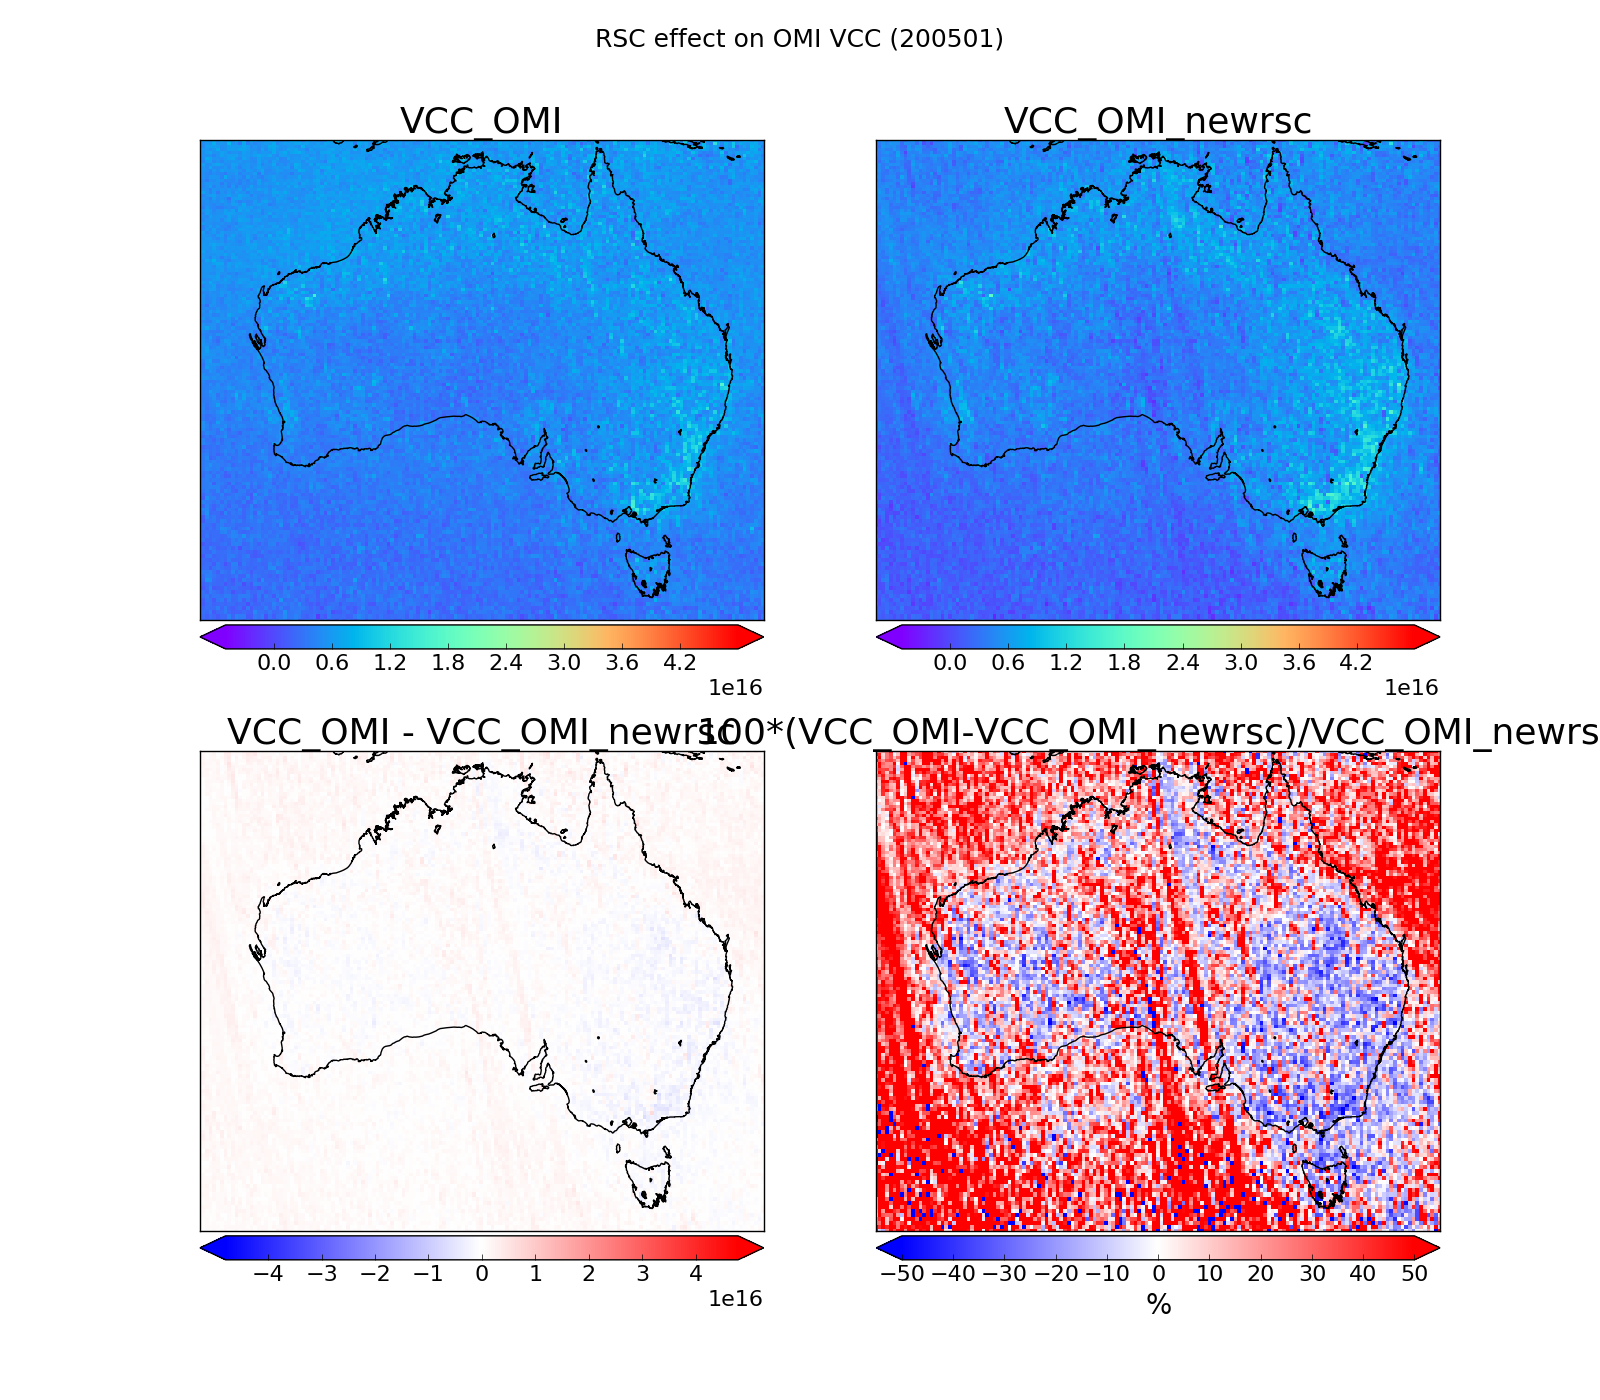
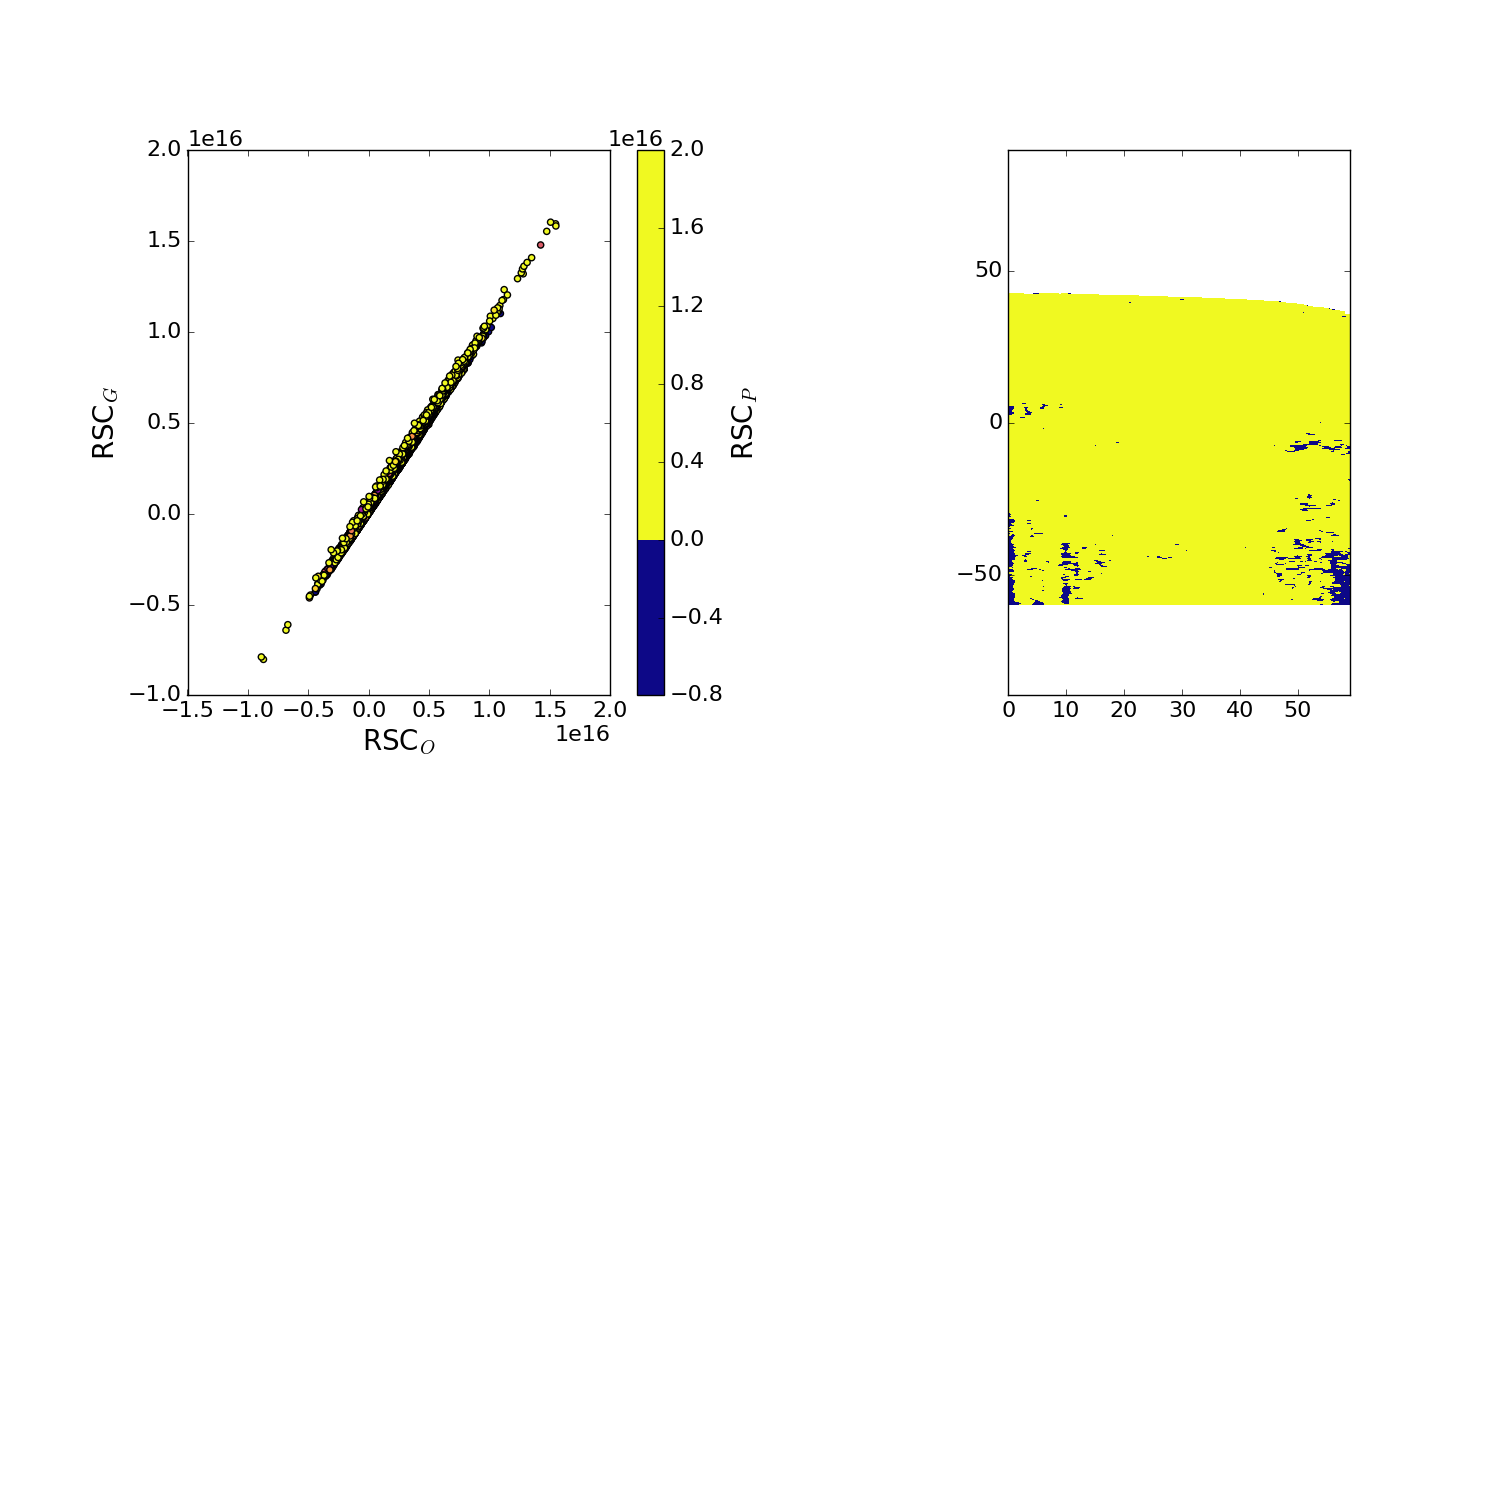
Updated RSC tests

diff --git a/tests/RSC_tests.py b/tests/RSC_tests.py
@@ -22,7 +22,7 @@ from copy import deepcopy as dcopy
 from datetime import datetime#, timedelta
 
 import matplotlib.pyplot as plt
-
+from mpl_toolkits.mplot3d import Axes3D # 3d scatter
 #from matplotlib.colors import LogNorm # for lognormal colour bar
 #from matplotlib.ticker import FormatStrFormatter # tick formats
 #import matplotlib.patches as mpatches
@@ -45,8 +45,29 @@ Oo='$\Omega_{O}$'       # OMI VC
 Ooc='$\Omega_{OC}$'     # OMI VCC
 
 
+######################
+##      plotting functions
+######################
 
+def plot_tracks(RSC,RSC_lats=np.linspace(-90,90,500),
+                linestyle='.',
+                cmapname='jet', labels=True, colorbar=True):
+    ## plot each track with a slightly different colour
 
+    cmap=plt.cm.cmap_d[cmapname]
+    colors=[cmap(i) for i in np.linspace(0, 1, 60)]
+    for track in range(60):
+        plt.plot(RSC[:,track], RSC_lats, linestyle, color=colors[track])
+
+    if labels:
+        plt.ylabel('latitude')
+        plt.xlabel('molec/cm2')
+
+    if colorbar:
+        sm = plt.cm.ScalarMappable(cmap=plt.cm.jet,norm=plt.Normalize(vmin=0,vmax=60))
+        sm._A=[]
+        cb=plt.colorbar(sm)
+        cb.set_label('track')
 
 
 
@@ -65,6 +86,7 @@ def new_vs_old(month=datetime(2005,1,1)):
     d0=util.first_day(month)
     dn=util.last_day(month)
     titles=['VCC_OMI','VCC_OMI_newrsc']
+    lables=[Ooc,r'$\Omega_{Oc,new}$']
     om=omrp(d0,dayn=dn, keylist=titles)
 
     # Compare old vs new avg for one month
@@ -72,8 +94,146 @@ def new_vs_old(month=datetime(2005,1,1)):
     lats=[om.lats,om.lats]
     lons=[om.lons,om.lons]
     pp.compare_maps(datas,lats,lons,pname=pname, linear=True,
-                    titles=titles,rmin=-50,rmax=50,
-                    suptitle='RSC effect on OMI VCC (%s)'%ymstr)
+                    vmin=1e14,vmax=2e16,
+                    titles=lables,rmin=-50,rmax=50, amin=-5e15,amax=5e15,
+                    suptitle='%s with and without updated RSC (%s)'%(Ooc,ymstr))
+
+def intercomparison(month=datetime(2005,1,1)):
+    '''
+        Look at RSC in a month between AMF types used to turn model VC into SC
+    '''
+     # plot name
+    ymstr=month.strftime('%Y%m')
+    pname='Figs/RSC_intercomparison_%s.png'%ymstr
+    cmapname='plasma'
+
+    # read in VCC_OMI and VCC_OMI_newrsc for month
+    d0=util.first_day(month)
+    dn=util.last_day(month)
+    titles=['RSC','RSC_latitude']
+    lables=['RSC$_O$','RSC$_G$','RSC$_P$']
+    colours=['orange','green','purple']
+    om=omrp(d0,dayn=dn, keylist=titles) #
+    lats=om.RSC_latitude
+    RSC=np.nanmean(om.RSC,axis=0) # RSC=[time, lats, track, type]
+
+    vmin=-1e16
+    vmax=1e16
+
+    plt.figure(figsize=(15,15))
+    for i in range(3):
+        plt.subplot(2,3,1+i)
+        plt.contourf(range(60),lats,RSC[:,:,i],cmap=cmapname,vmin=vmin,vmax=vmax)
+        plt.title(lables[i])
+        plt.xlabel('track')
+        plt.ylabel('latitude')
+        # plot the 60 tracks as lines
+        plt.subplot(2,3,4+i)
+        plot_tracks(RSC[:,:,i],labels=False, colorbar=i==2)
+        if i==0:
+            plt.ylabel('latitude')
+        if i==1:
+            plt.xlabel('molec/cm2')
+        plt.title(lables[i])
+
+
+    #[[plt.plot(lats, RSC[:,i,j],color=colours[j],label=[None,lables[j]][i==0]) for i in range(60)] for j in range(3)]
+    #plt.legend()
+
+
+    plt.savefig(pname)
+    print ('%s saved'%pname)
+    plt.close()
+
+def check_RSC(day=datetime(2005,1,1), track_corrections=True):
+    '''
+    Grab the RSC from both GEOS-Chem and OMI for a particular day
+    Plot and compare the RSC region
+    Plot the calculated corrections
+    '''
+    print("Running check_RSC")
+    # Read in one day average
+    omhchorp1=fio.read_omhchorp(day)
+    yyyymmdd=day.strftime("%Y%m%d")
+    rsc=omhchorp1['RSC']
+    ref_lat_bins=omhchorp1['RSC_latitude']
+    rsc_gc=omhchorp1['RSC_GC'] # RSC_GC is in molecs/cm2 as of 11/08/2016
+
+    if track_corrections:
+        plot_tracks(rsc[:,:,0])
+        plt.title('Reference sector corrections for %s'%yyyymmdd,fontsize=20)
+        pname='Figs/RSC_track_corrections%s.png'%yyyymmdd
+        plt.savefig(pname)
+        print('SAVED: ',pname)
+        plt.close()
+
+    def RSC_map(lons,lats,data,labels=[0,0,0,0]):
+        ''' Draw standard map around RSC region '''
+        vmin, vmax= 5e14, 1e16
+        lat0, lat1, lon0, lon1=-75, 75, -170, -130
+        m=Basemap(lon0,lat0,lon1,lat1, resolution='i', projection='merc')
+        cs=m.pcolormesh(lons, lats, data, latlon=True,
+              vmin=vmin,vmax=vmax,norm = LogNorm(), clim=(vmin,vmax))
+        cs.cmap.set_under('white')
+        cs.cmap.set_over('pink')
+        cs.set_clim(vmin,vmax)
+        m.drawcoastlines()
+        m.drawmeridians([ -160, -140],labels=labels)
+        return m, cs
+
+    ## plot the reference region,
+    #
+    # we need 501x3 bounding edges for our 500x2 2D data (which is just the 500x1 data twice)
+    rsc_lat_edges= list(ref_lat_bins-0.18)
+    rsc_lat_edges.append(90.)
+    rsc_lat_edges = np.array(rsc_lat_edges)
+    lons_gc, lats_gc = np.meshgrid( [-160., -150, -140.], rsc_lat_edges )
+
+    # Make the GC map:
+    f2=plt.figure(1, figsize=(14,10))
+    plt.subplot(141)
+    rsc_gc_new = np.transpose(np.array([ rsc_gc, rsc_gc] ))
+    m,cs = RSC_map(lons_gc,lats_gc,rsc_gc_new, labels=[0,0,0,1])
+    m.drawparallels([-45,0,45],labels=[1,0,0,0])
+    cb=m.colorbar(cs,"right",size="8%", pad="3%")
+    cb.set_label('Molecules/cm2')
+    plt.title('RSC_GC')
+
+    # add the OMI reference sector for comparison
+    sc_omi=omhchorp1['SC'] # [ 720, 1152 ] molecs/cm2
+    lats_rp=omhchorp1['latitude']
+    lons_rp=omhchorp1['longitude']
+    rsc_lons= (lons_rp > -160) * (lons_rp < -140)
+    newlons=pp.regularbounds(lons_rp[rsc_lons])
+    newlats=pp.regularbounds(lats_rp)
+    newlons,newlats = np.meshgrid(newlons,newlats)
+    # new map with OMI SC data
+    plt.subplot(142)
+    plt.title("SC_OMI")
+    m,cs=RSC_map(newlons, newlats, sc_omi[:,rsc_lons])
+    m.drawmeridians([ -160, -140],labels=[0,0,0,0])
+
+    ## Another plot using OMI_VC (old reprocessed data)
+    #
+    vc_omi=omhchorp1['VC_OMI']
+    plt.subplot(143)
+    plt.title('VC_OMI')
+    m,cs=RSC_map(newlons,newlats,vc_omi[:,rsc_lons])
+
+    ## One more with VC_GC over the ref sector
+    #
+    vc_gc=omhchorp1['VC_GC'] # [ 720, 1152 ] molecs/cm2
+    # new map with OMI SC data
+    plt.subplot(144)
+    plt.title("VC_GC")
+    m,cs=RSC_map(newlons,newlats,vc_gc[:,rsc_lons])
+
+
+    f2.suptitle('GEOS_Chem VC vs OMI SC over RSC on %s'%yyyymmdd)
+    outfig2='Figs/RSC_GC_%s.png'%yyyymmdd
+    plt.savefig(outfig2)
+    print(outfig2+' saved')
+    plt.close(f2)
 
 def Summary_RSC(month=datetime(2005,1,1)):
     '''

diff --git a/tests.py b/tests.py
@@ -31,6 +31,8 @@ import matplotlib.pyplot as plt
 from matplotlib.colors import LogNorm # for lognormal colour bar
 from matplotlib.ticker import FormatStrFormatter # tick formats
 
+
+
 #import matplotlib.patches as mpatches
 import seaborn # kdeplots
 
@@ -1704,107 +1706,7 @@ def check_high_amfs(day=datetime(2005,1,1)):
     plt.savefig(outpic)
     print('saved %s'%outpic)
 
-def check_RSC(day=datetime(2005,1,1), track_corrections=False):
-    '''
-    Grab the RSC from both GEOS-Chem and OMI for a particular day
-    Plot and compare the RSC region
-    Plot the calculated corrections
-    '''
-    print("Running check_RSC")
-    # Read in one day average
-    omhchorp1=fio.read_omhchorp(day,oneday=True)
-    yyyymmdd=day.strftime("%Y%m%d")
-    rsc=omhchorp1['RSC']
-    ref_lat_bins=omhchorp1['RSC_latitude']
-    rsc_gc=omhchorp1['RSC_GC'] # RSC_GC is in molecs/cm2 as of 11/08/2016
 
-    ## plot each track with a slightly different colour
-    #
-    if track_corrections:
-        f1=plt.figure(0,figsize=(8,10))
-        colors=[plt.cm.jet(i) for i in np.linspace(0, 1, 60)]
-        for track in range(60):
-            plt.plot(rsc[:,track], ref_lat_bins, '.', color=colors[track])
-            #plt.plot(rsc_function(ref_lat_bins,track), ref_lat_bins, color=colors[track])
-        plt.ylabel('latitude')
-        plt.xlabel('molecules/cm2')
-        plt.title('Reference sector correction for %s'%yyyymmdd)
-        sm = plt.cm.ScalarMappable(cmap=plt.cm.jet,norm=plt.Normalize(vmin=0,vmax=60))
-        sm._A=[]
-        cb=plt.colorbar(sm)
-        cb.set_label('track')
-        outfig1='Figs/track_corrections%s.png'%yyyymmdd
-        plt.savefig(outfig1)
-        print(outfig1+' saved')
-        plt.close(f1)
-
-    def RSC_map(lons,lats,data,labels=[0,0,0,0]):
-        ''' Draw standard map around RSC region '''
-        vmin, vmax= 5e14, 1e16
-        lat0, lat1, lon0, lon1=-75, 75, -170, -130
-        m=Basemap(lon0,lat0,lon1,lat1, resolution='i', projection='merc')
-        cs=m.pcolormesh(lons, lats, data, latlon=True,
-              vmin=vmin,vmax=vmax,norm = LogNorm(), clim=(vmin,vmax))
-        cs.cmap.set_under('white')
-        cs.cmap.set_over('pink')
-        cs.set_clim(vmin,vmax)
-        m.drawcoastlines()
-        m.drawmeridians([ -160, -140],labels=labels)
-        return m, cs
-
-    ## plot the reference region,
-    #
-    # we need 501x3 bounding edges for our 500x2 2D data (which is just the 500x1 data twice)
-    rsc_lat_edges= list(ref_lat_bins-0.18)
-    rsc_lat_edges.append(90.)
-    rsc_lat_edges = np.array(rsc_lat_edges)
-    lons_gc, lats_gc = np.meshgrid( [-160., -150, -140.], rsc_lat_edges )
-
-    # Make the GC map:
-    f2=plt.figure(1, figsize=(14,10))
-    plt.subplot(141)
-    rsc_gc_new = np.transpose(np.array([ rsc_gc, rsc_gc] ))
-    m,cs = RSC_map(lons_gc,lats_gc,rsc_gc_new, labels=[0,0,0,1])
-    m.drawparallels([-45,0,45],labels=[1,0,0,0])
-    cb=m.colorbar(cs,"right",size="8%", pad="3%")
-    cb.set_label('Molecules/cm2')
-    plt.title('RSC_GC')
-
-    # add the OMI reference sector for comparison
-    sc_omi=omhchorp1['SC'] # [ 720, 1152 ] molecs/cm2
-    lats_rp=omhchorp1['latitude']
-    lons_rp=omhchorp1['longitude']
-    rsc_lons= (lons_rp > -160) * (lons_rp < -140)
-    newlons=pp.regularbounds(lons_rp[rsc_lons])
-    newlats=pp.regularbounds(lats_rp)
-    newlons,newlats = np.meshgrid(newlons,newlats)
-    # new map with OMI SC data
-    plt.subplot(142)
-    plt.title("SC_OMI")
-    m,cs=RSC_map(newlons, newlats, sc_omi[:,rsc_lons])
-    m.drawmeridians([ -160, -140],labels=[0,0,0,0])
-
-    ## Another plot using OMI_VC (old reprocessed data)
-    #
-    vc_omi=omhchorp1['VC_OMI']
-    plt.subplot(143)
-    plt.title('VC_OMI')
-    m,cs=RSC_map(newlons,newlats,vc_omi[:,rsc_lons])
-
-    ## One more with VC_GC over the ref sector
-    #
-    vc_gc=omhchorp1['VC_GC'] # [ 720, 1152 ] molecs/cm2
-    # new map with OMI SC data
-    plt.subplot(144)
-    plt.title("VC_GC")
-    m,cs=RSC_map(newlons,newlats,vc_gc[:,rsc_lons])
-
-
-    f2.suptitle('GEOS_Chem VC vs OMI SC over RSC on %s'%yyyymmdd)
-    outfig2='Figs/RSC_GC_%s.png'%yyyymmdd
-    plt.savefig(outfig2)
-    print(outfig2+' saved')
-    plt.close(f2)
 
 def check_flags_and_entries(day=datetime(2005,1,1), oneday=True):
     '''
@@ -1876,13 +1778,14 @@ if __name__ == '__main__':
     ### RSC TESTS
     #####################
     ## original omi VCC vs same with new RSC
-    RSC_tests.new_vs_old(date)  # last run 31/5/18
+    #RSC_tests.new_vs_old(date)  # last run 1/6/18
 
     ## Plots showing how it works
     #RSC_tests.summary(date) # Last run 31/5/18 # last run 18/5/18 - needs work
+    RSC_tests.check_RSC(date) # needs update
 
     ## Look at different ways of making the RSC (different AMFs)
-    #RSC_tests.intercomparison(date) # not run
+    RSC_tests.intercomparison(date) # last run 1/6/18
 
 
     #####################

diff --git a/utilities/plotting.py b/utilities/plotting.py
@@ -455,8 +455,18 @@ def hatchmap(m, datamap, lats, lons, thresh, region=None,hatch='x',color='k'):
     mx,my = m(mlons,mlats)
     m.pcolor(mx, my, aaod_masked, hatch=hatch, color=color, alpha=0.)
 
-def get_colors(cmapname,howmany):
+def get_colors(cmapname,howmany, values=None,vmin=None,vmax=None):
     cmap=plt.cm.cmap_d[cmapname]
+    if values is not None:
+        if vmin is None:
+            vmin = np.nanmin(values)
+        if vmax is None:
+            vmax = np.nanmax(values)
+        norm=matplotlib.colors.Normalize(vmin=vmin,vmax=vmax,clip=True)
+
+        #mapper=plt.cm.ScalarMappable(norm=norm, cmap=cmap)
+        return cmap(norm(values))
+
     return cmap(np.linspace(0, 1, howmany))
 
 def plot_img(path):

diff --git a/utilities/fio.py b/utilities/fio.py
@@ -75,7 +75,7 @@ __OMHCHORP_COORDS__=[
 __OMHCHORP_KEYS__ = [
     'gridentries',   # how many satellite pixels make up the pixel
     'ppentries',     # how many pixels we got the PP_AMF for
-    'RSC',           # The reference sector correction [rsc_lats, 60]
+    'RSC',           # The reference sector correction [rsc_lats, 60,3]
     'RSC_latitude',  # latitudes of RSC
     'RSC_region',    # RSC region [S,W,N,E]
     'RSC_GC',        # GEOS-Chem RSC [RSC_latitude] (molec/cm2)
